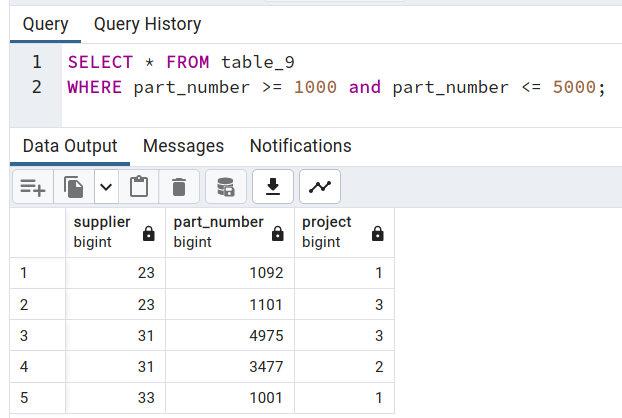
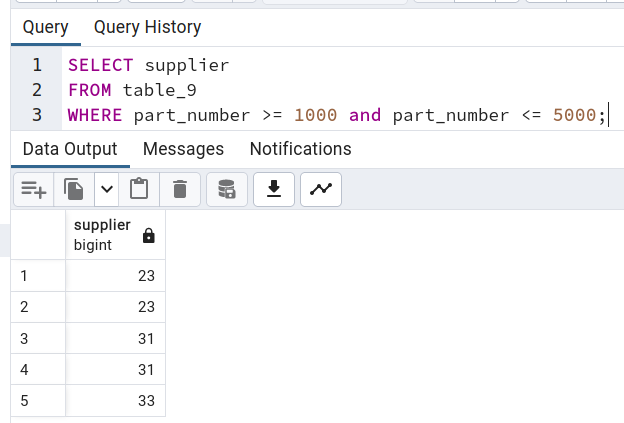
solution 28

diff --git a/chapter_9_relations/9.2_n-ary_relations_and_their_applications/exercises/solution.md b/chapter_9_relations/9.2_n-ary_relations_and_their_applications/exercises/solution.md
@@ -189,8 +189,9 @@ Then $R \bigcap S = \phi$, so $P_{1}(R \bigcap S) = \phi$. On the other hand, $P
 ![problem 28](https://github.com/jigjnasu/discrete_mathematics_and_its_applications/blob/master/chapter_9_relations/9.2_n-ary_relations_and_their_applications/repo/problem_28.png)
 #### Solution
 a) </br>
-  Selection operator on supplier, $S_{supplier}$. </br>
+  Selection operator on Table 9 with condition. </br>
   Condition $part\_number \geq 1000$ and $part\_number \le 5000$  </br>
+  Finally the Project on $S_{supplier}$. </br>
 b) </br>
 ![solution 28b](https://github.com/jigjnasu/discrete_mathematics_and_its_applications/blob/master/chapter_9_relations/9.2_n-ary_relations_and_their_applications/repo/solution_28_b.png)
 
